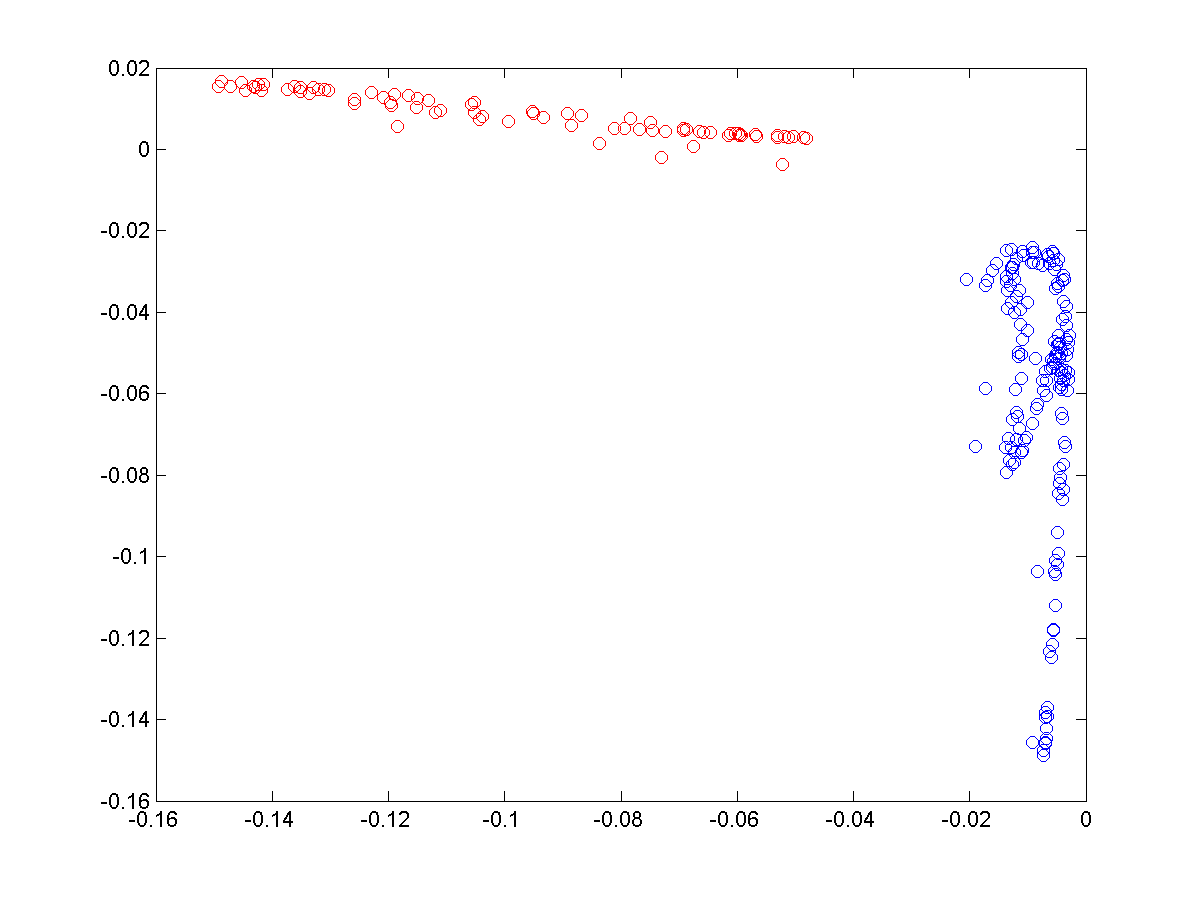
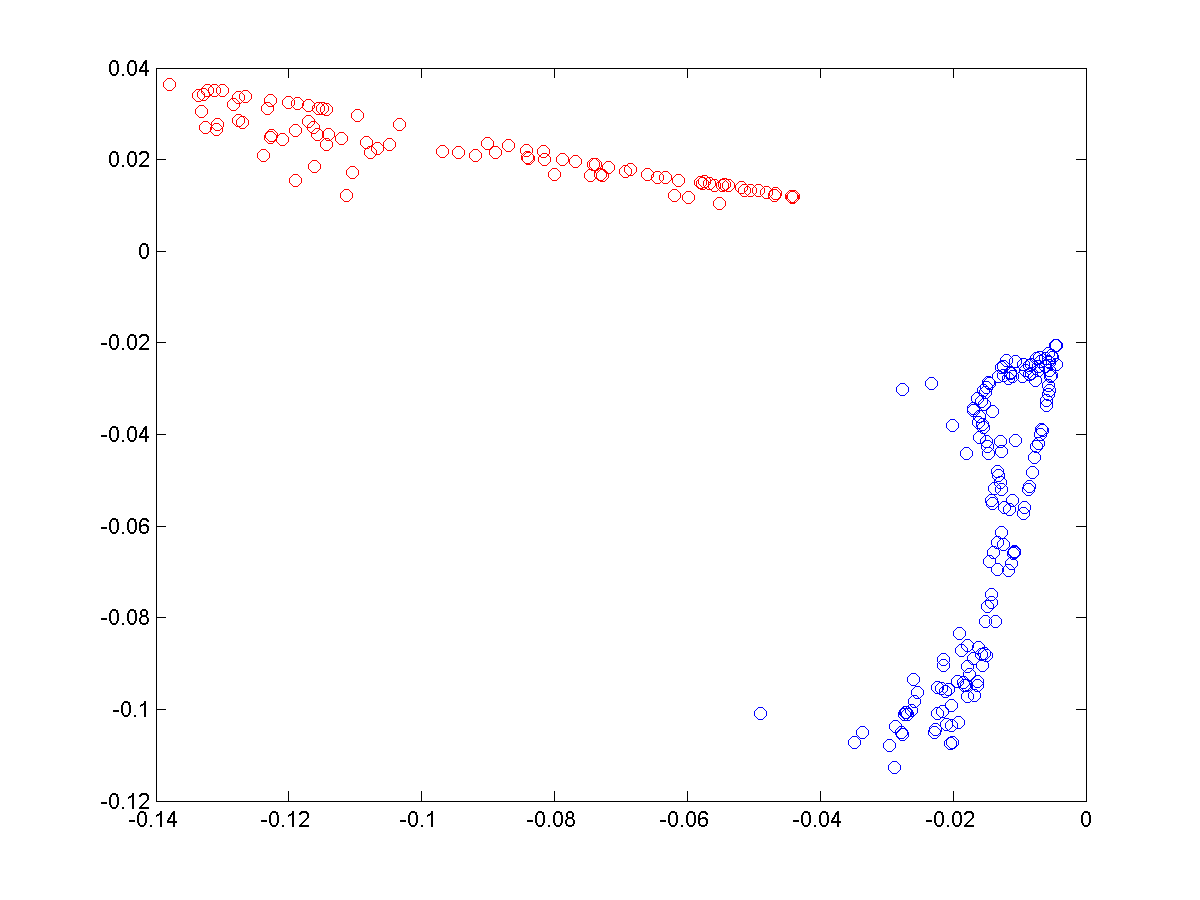
add kmeans result on polar system

diff --git a/spectral-clustering/code/sample.m b/spectral-clustering/code/sample.m
@@ -54,3 +54,19 @@ print(gcf, '-dpng', '../plot/sc_sample_2d_embed.png') ;
 % set(h, 'LineWidth', 20) ;
 % h = plot(c(2, 1), c(2, 2), '*r') ;
 % set(h, 'LineWidth', 20) ;
+
+figure ;
+%Test polar coordinate system
+%1. subtract sample mean 
+%2. convert from cartesian coordinate to polar coordinate
+[ptheta, pr] = cart2pol(X(:,1) - mean(X(:,1)), X(:,2) - mean(X(:,2))) ;
+PX = [zscore(ptheta), zscore(pr)] ;
+[idx, c] = kmeans(PX, K) ;
+plot(X(idx==1, 1), X(idx==1, 2), 'ob') ;
+hold on ;
+plot(X(idx==2, 1), X(idx==2, 2), 'or') ;
+% h = plot(c(1, 1), c(1, 2), '*b') ;
+% set(h, 'LineWidth', 20) ;
+% h = plot(c(2, 1), c(2, 2), '*r') ;
+% set(h, 'LineWidth', 20) ;
+print(gcf, '-dpng', '../plot/sc_sample_pkmeans.png') ;
